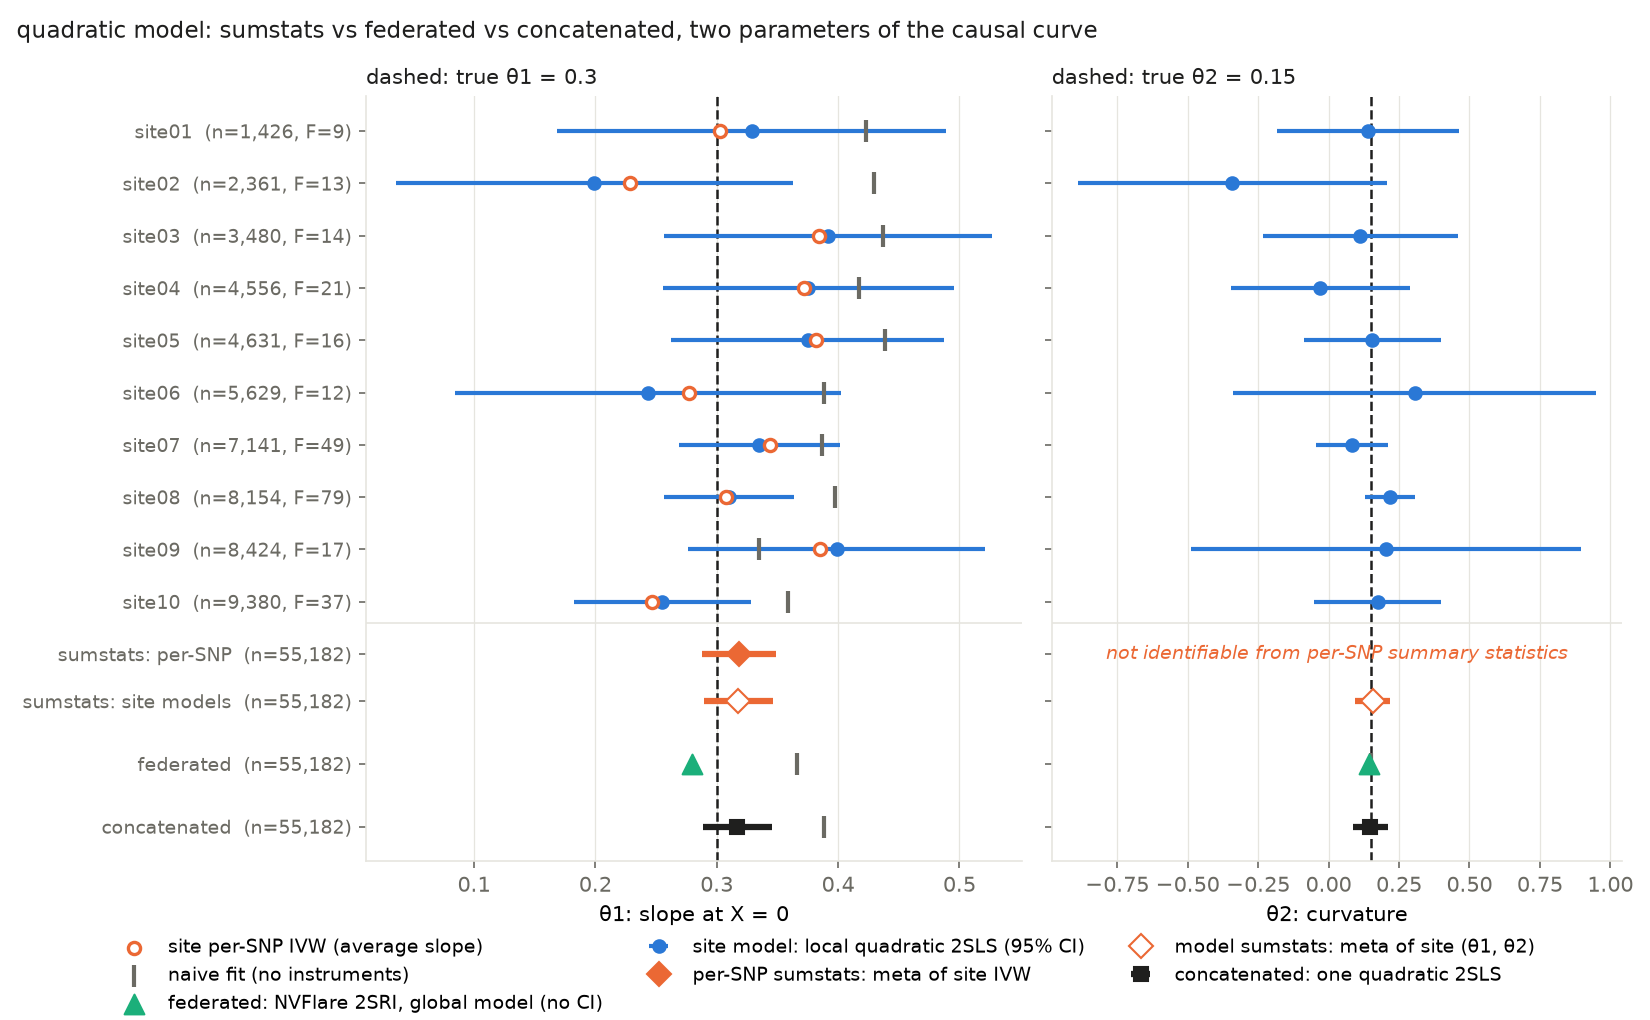
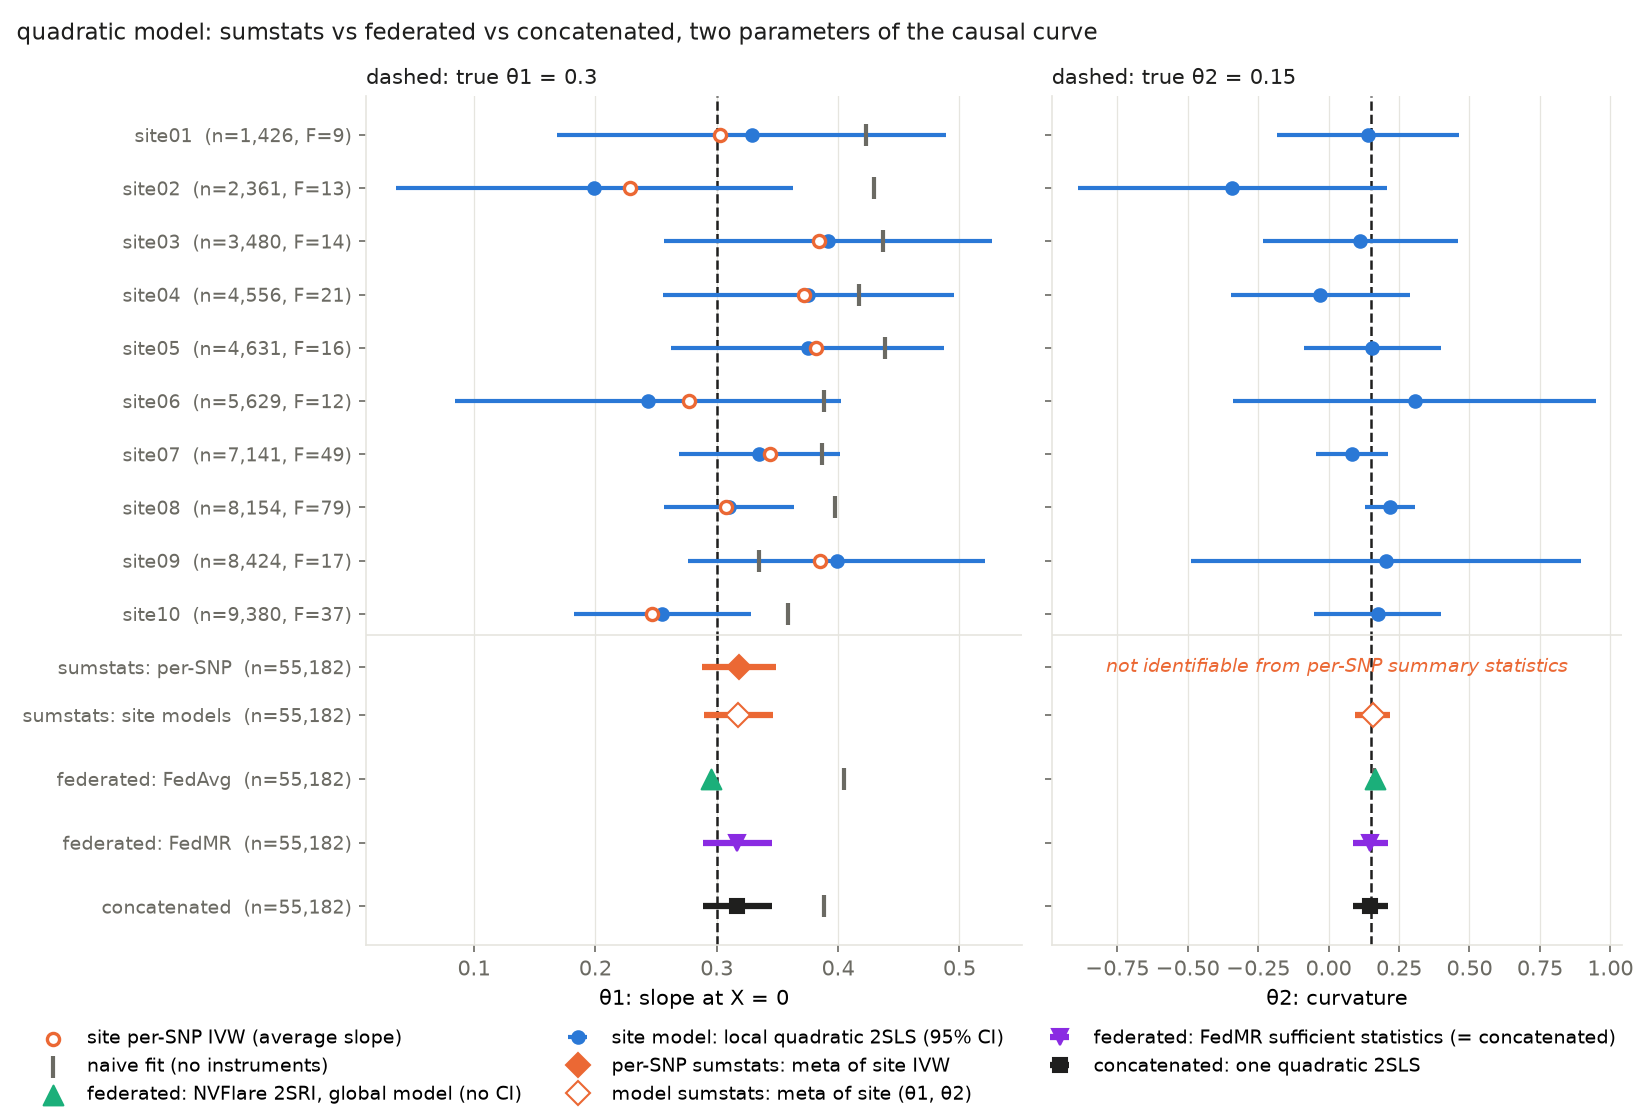
WP2: FedMR driver and FedMR rows on the forest and dose-response plots
scripts/federated_exact_mr.py compares FedMR (classical and robust SE,
first-stage F, cross-fitted variant) with the concatenated, site-meta and
sumstats estimators on every continuous set and writes results/fedmr.<shape>.csv.
The forest plots gain a 'federated: FedMR' row with a CI; the non-linear
plot draws the FedMR quadratic curve, identical to the concatenated fit.

Claude-Session: https://claude.ai/code/session_015NyuikE1DxS4koegP9jiqJ

diff --git a/data/scripts/federated_summary_mr.py b/data/scripts/federated_summary_mr.py
@@ -32,7 +32,8 @@ from lifelines import CoxPHFitter
 matplotlib.use("Agg")
 import matplotlib.pyplot as plt
 
-SITE_COLOR, SUMSTATS_COLOR, FED_COLOR, INK, MUTED, GRID = "#2a78d6", "#eb6834", "#1baf7a", "#1f1f1e", "#6b6a63", "#e6e5df"
+SITE_COLOR, SUMSTATS_COLOR, FED_COLOR, FEDMR_COLOR, INK, MUTED, GRID = ("#2a78d6", "#eb6834", "#1baf7a", "#8a2be2",
+                                                                     "#1f1f1e", "#6b6a63", "#e6e5df")
 FL_RESULTS = Path(__file__).resolve().parents[2] / "federated_learning" / "results"
 
 
@@ -175,11 +176,12 @@ def _family_rows(ax, y_sites, rows_y, res, n_all, families):
     ax.set_yticklabels(labels, fontsize=9)
 
 
-def forest(res, meta, meta_se, pooled, pooled_se, pooled_naive, fl, target, target_label, shape, out: Path):
+def forest(res, meta, meta_se, pooled, pooled_se, pooled_naive, fl, target, target_label, shape, out: Path,
+           fedmr=None):
     sites = res["site"].to_list()
     y = np.arange(len(sites))[::-1]
-    rows_y = {"sumstats": -1, "federated": -2.2, "pooled": -3.4}
-    fig, ax = plt.subplots(figsize=(8, 6.6), dpi=150)
+    rows_y = {"sumstats": -1, "federated": -2.2, "fedmr": -3.4, "pooled": -4.6}
+    fig, ax = plt.subplots(figsize=(8, 7.2), dpi=150)
     ax.axvline(target, color=INK, linewidth=1.2, linestyle="--")
     ax.errorbar(res["ivw"], y, xerr=1.96 * res["ivw_se"], fmt="o", color=SITE_COLOR, ms=6,
                 ecolor=SITE_COLOR, elinewidth=2, capsize=0, label="site IVW (95% CI)")
@@ -191,6 +193,12 @@ def forest(res, meta, meta_se, pooled, pooled_se, pooled_naive, fl, target, targ
                    label="federated: NVFlare 2SRI, global model (no CI)")
     if "naive" in fl:
         ax.scatter([fl["naive"][0]], [rows_y["federated"]], marker="|", s=120, color=MUTED, linewidths=2, zorder=3)
+    if fedmr is not None:
+        ax.errorbar([fedmr[0]], [rows_y["fedmr"]], xerr=[1.96 * fedmr[1]], fmt="v", color=FEDMR_COLOR, ms=8,
+                    ecolor=FEDMR_COLOR, elinewidth=3, label="federated: FedMR sufficient statistics (= concatenated)")
+    else:
+        ax.text(0.5, rows_y["fedmr"], "no FedMR run for this dataset", transform=ax.get_yaxis_transform(),
+                ha="center", va="center", fontsize=9, color=FEDMR_COLOR, style="italic")
     pooled_label = "concatenated: one stratified 2SPS Cox" if shape == "cox" else "concatenated: one pooled 2SLS"
     ax.errorbar([pooled], [rows_y["pooled"]], xerr=[1.96 * pooled_se], fmt="s", color=INK, ms=7,
                 ecolor=INK, elinewidth=3, label=pooled_label)
@@ -200,7 +208,8 @@ def forest(res, meta, meta_se, pooled, pooled_se, pooled_naive, fl, target, targ
         ax.text(0.5, rows_y["federated"], "no NVFlare 2SRI run for this dataset", transform=ax.get_yaxis_transform(),
                 ha="center", va="center", fontsize=9, color=FED_COLOR, style="italic")
     _family_rows(ax, y, rows_y, res, res["n"].sum(),
-                 {"sumstats": "sumstats", "federated": "federated", "pooled": "concatenated"})
+                 {"sumstats": "sumstats", "federated": "federated: FedAvg", "fedmr": "federated: FedMR",
+                  "pooled": "concatenated"})
     ax.set_xlabel("estimated log hazard ratio per unit X" if shape == "cox" else "estimated causal effect of X on Y")
     ax.set_title(f"{shape} model: sumstats vs federated vs concatenated\ndashed line: {target_label}",
                  loc="left", fontsize=11, color=INK)
@@ -208,6 +217,20 @@ def forest(res, meta, meta_se, pooled, pooled_se, pooled_naive, fl, target, targ
     _style(ax)
     fig.tight_layout()
     fig.savefig(out)
+
+
+def fedmr_row(dataset: str, curved: bool):
+    """FedMR estimate from results/fedmr.<dataset>.csv (scripts/federated_exact_mr.py), or None.
+    Returns (theta1, se1, theta2, se2); theta2 and se2 are None for the linear layout."""
+    path = Path("results") / f"fedmr.{dataset}.csv"
+    if not path.exists():
+        return None
+    df = pl.read_csv(path)
+    r = df.filter(pl.col("estimator") == ("FedMR quadratic" if curved else "FedMR"))
+    if r.height == 0:
+        return None
+    r = r.row(0, named=True)
+    return r["theta1"], r["se1"], r["theta2"], r["se2"]
 
 
 def fl_curve(method: str, dataset: str):
@@ -248,12 +271,12 @@ def _style(ax):
 
 
 def forest_curved(res, meta, meta_se, model_meta, model_cov, pooled_q, pooled_cov, pooled_naive, fl,
-                  avg_slope_target, shape, theta1, theta2, out: Path):
+                  avg_slope_target, shape, theta1, theta2, out: Path, fedmr=None):
     """Two columns, one per parameter of the quadratic basis. Rows: sites, then the three families."""
     sites = res["site"].to_list()
     y = np.arange(len(sites))[::-1]
-    rows_y = {"sumstats": -1, "models": -1.9, "federated": -3.1, "pooled": -4.3}
-    fig, axes = plt.subplots(1, 2, figsize=(11, 6.8), dpi=150, sharey=True,
+    rows_y = {"sumstats": -1, "models": -1.9, "federated": -3.1, "fedmr": -4.3, "pooled": -5.5}
+    fig, axes = plt.subplots(1, 2, figsize=(11, 7.4), dpi=150, sharey=True,
                              gridspec_kw={"width_ratios": [1.15, 1]})
     ax1, ax2 = axes
     n_all = res["n"].sum()
@@ -282,6 +305,14 @@ def forest_curved(res, meta, meta_se, model_meta, model_cov, pooled_q, pooled_co
     if "naive" in fl:
         ax1.scatter([fl["naive"][0]], [rows_y["federated"]], marker="|", s=120, color=MUTED, linewidths=2, zorder=3)
         ax2.scatter([fl["naive"][1]], [rows_y["federated"]], marker="|", s=120, color=MUTED, linewidths=2, zorder=3)
+    if fedmr is not None:
+        ax1.errorbar([fedmr[0]], [rows_y["fedmr"]], xerr=[1.96 * fedmr[1]], fmt="v", color=FEDMR_COLOR, ms=8,
+                     ecolor=FEDMR_COLOR, elinewidth=3, label="federated: FedMR sufficient statistics (= concatenated)")
+        ax2.errorbar([fedmr[2]], [rows_y["fedmr"]], xerr=[1.96 * fedmr[3]], fmt="v", color=FEDMR_COLOR, ms=8,
+                     ecolor=FEDMR_COLOR, elinewidth=3)
+    else:
+        ax1.text(0.5, rows_y["fedmr"], "no FedMR run for this dataset", transform=ax1.get_yaxis_transform(),
+                 ha="center", va="center", fontsize=9, color=FEDMR_COLOR, style="italic")
     ax1.errorbar([pooled_q[0]], [rows_y["pooled"]], xerr=[1.96 * np.sqrt(pooled_cov[0, 0])], fmt="s", color=INK,
                  ms=7, ecolor=INK, elinewidth=3, label="concatenated: one quadratic 2SLS")
     ax1.scatter([pooled_naive], [rows_y["pooled"]], marker="|", s=120, color=MUTED, linewidths=2, zorder=3)
@@ -311,7 +342,8 @@ def forest_curved(res, meta, meta_se, model_meta, model_cov, pooled_q, pooled_co
         ax.axhline(-0.4, color=GRID, linewidth=0.8)
         _style(ax)
     _family_rows(ax1, y, rows_y, res, n_all, {"sumstats": "sumstats: per-SNP", "models": "sumstats: site models",
-                                              "federated": "federated", "pooled": "concatenated"})
+                                              "federated": "federated: FedAvg", "fedmr": "federated: FedMR",
+                                              "pooled": "concatenated"})
     fig.suptitle(f"{shape} model: sumstats vs federated vs concatenated, two parameters of the causal curve",
                  x=0.01, ha="left", fontsize=11, color=INK)
     handles, labels = ax1.get_legend_handles_labels()
@@ -356,6 +388,11 @@ def main():
     csv_out, png_out = Path(f"{a.out}.csv"), Path(f"{a.out}.png")
     res.write_csv(csv_out)
     fl = fl_params(a.sites.name, curved)
+    fedmr = fedmr_row(a.sites.name, curved)
+    if fedmr is None:
+        print(f"no FedMR result at results/fedmr.{a.sites.name}.csv; run scripts/federated_exact_mr.py --shape {a.shape}")
+    else:
+        print(f"federated FedMR: " + "  ".join(f"{v:.3f}" for v in fedmr if v is not None) + "   (exact, with CI)")
     for method, coef in fl.items():
         print(f"federated NVFlare {method:5s}: " + "  ".join(f"{v:.3f}" for v in coef) + "   (from curve, no CI)")
     if "2sri" not in fl:
@@ -364,14 +401,14 @@ def main():
         model_meta, model_cov = multivariate_meta(*zip(*site_summary.models))
         pooled_q, pooled_cov = quadratic_2sls(site_summary.raw)
         forest_curved(res, meta, meta_se, model_meta, model_cov, pooled_q, pooled_cov, pooled_naive, fl,
-                      target, a.shape, manifest["theta1"], manifest["theta2"], png_out)
+                      target, a.shape, manifest["theta1"], manifest["theta2"], png_out, fedmr)
         mse = np.sqrt(np.diag(model_cov)); pse = np.sqrt(np.diag(pooled_cov))
         print(f"model sumstats (meta of site quadratic fits): theta1 {model_meta[0]:.3f} ({mse[0]:.3f})  "
               f"theta2 {model_meta[1]:.3f} ({mse[1]:.3f})")
         print(f"concatenated quadratic 2SLS:                  theta1 {pooled_q[0]:.3f} ({pse[0]:.3f})  "
               f"theta2 {pooled_q[1]:.3f} ({pse[1]:.3f})")
     else:
-        forest(res, meta, meta_se, pooled, pooled_se, pooled_naive, fl, target, target_label, a.shape, png_out)
+        forest(res, meta, meta_se, pooled, pooled_se, pooled_naive, fl, target, target_label, a.shape, png_out, fedmr)
 
     with pl.Config(tbl_rows=-1, float_precision=3):
         print(res)

diff --git a/data/scripts/federated_exact_mr.py b/data/scripts/federated_exact_mr.py
@@ -1,0 +1,147 @@
+"""FedMR on the federated sets: exact federated 2SLS versus the other three families.
+
+For each continuous set this runs, without ever concatenating rows across sites,
+
+    FedMR             sufficient statistics summed over sites (scripts/fedmr.py), classical
+                      and robust standard errors, first-stage F and partial R^2
+    FedMR-CF          the same with k-fold cross-fitted X_hat (out-of-fold first stage)
+
+and compares them with
+
+    concatenated      one pooled 2SLS on the stacked rows (federated_summary_mr.py)
+    site meta         each site's own 2SLS, combined by inverse-variance meta-analysis
+    sumstats IVW      per-SNP GWAS effects, per-site IVW, meta-analysis
+
+The headline number is |FedMR - concatenated|, which must be below 1e-10: the
+federated estimator is the pooled estimator, not an approximation of it.
+
+Writes results/fedmr.<shape>.csv (one row per estimator) that the forest and
+dose-response plots pick up, and prints the table.
+
+    uv run python scripts/federated_exact_mr.py --shape quadratic
+    uv run python scripts/federated_exact_mr.py --all
+"""
+
+import argparse
+import json
+import sys
+from pathlib import Path
+
+import numpy as np
+import polars as pl
+
+sys.path.insert(0, str(Path(__file__).parent))
+import fedmr  # noqa: E402
+from federated_nonlinear_mr import sumstats_slope  # noqa: E402
+from federated_summary_mr import multivariate_meta, pooled_2sls, quadratic_2sls  # noqa: E402
+
+FED = Path("simulated_data/federated")
+SHAPES = ("linear", "quadratic", "ushape", "threshold")
+
+
+def raw(sites):
+    return [(s.G, s.X, s.Y) for s in sites]
+
+
+def site_meta_linear(sites):
+    est, se = zip(*[pooled_2sls([r])[:2] for r in raw(sites)])
+    w = 1 / np.array(se) ** 2
+    return float(np.sum(w * est) / np.sum(w)), float(np.sqrt(1 / np.sum(w)))
+
+
+def row(name, theta1, se1, rse1=None, theta2=None, se2=None, rse2=None, F=None, r2=None, diff=None, leaves=""):
+    return {"estimator": name, "theta1": theta1, "se1": se1, "robust_se1": rse1,
+            "theta2": theta2, "se2": se2, "robust_se2": rse2,
+            "first_stage_F": F, "partial_r2": r2, "abs_diff_from_pooled": diff, "what_leaves_site": leaves}
+
+
+def analyse(shape, instruments, crossfit, out_dir):
+    folder = FED / shape
+    manifest = json.loads((folder / "manifest.json").read_text())
+    if manifest.get("shared_snps"):
+        instruments = "shared"
+    sites = fedmr.load_sites(folder)
+    curved = shape != "linear"
+    rows = []
+
+    pooled, pooled_se, naive = pooled_2sls(raw(sites))
+    rows.append(row("concatenated 2SLS", pooled, pooled_se, leaves="individual rows"))
+
+    res = fedmr.fedmr(sites, instruments=instruments, basis="linear", robust=True)
+    fs = res.first_stage["X"]
+    rows.append(row("FedMR", res["X"], res.se("X"), res.se("X", True), F=fs["F"], r2=fs["partial_r2"],
+                    diff=abs(res["X"] - pooled), leaves="Z'Z, Z'W, Z'Y, W'W, W'Y, Y'Y, n (+ H for robust SE)"))
+
+    cf = fedmr.fedmr(sites, instruments=instruments, basis="linear", robust=True, crossfit=crossfit)
+    rows.append(row(f"FedMR-CF ({crossfit} folds)", cf["X"], cf.se("X"), cf.se("X", True),
+                    F=cf.first_stage["X"]["F"], r2=cf.first_stage["X"]["partial_r2"],
+                    leaves="per-fold first-stage moments, then the same statistics"))
+
+    meta, meta_se = site_meta_linear(sites)
+    rows.append(row("site 2SLS meta-analysis", meta, meta_se, diff=abs(meta - pooled),
+                    leaves="one estimate and SE per site"))
+    slope, slope_se = sumstats_slope(raw(sites))
+    rows.append(row("per-SNP sumstats IVW", slope, slope_se, diff=abs(slope - pooled),
+                    leaves="per-SNP beta_x, beta_y, SEs"))
+    rows.append(row("naive OLS (no instruments)", naive, None))
+
+    if curved:
+        theta, cov = quadratic_2sls(raw(sites))
+        rows.append(row("concatenated quadratic 2SLS", theta[0], np.sqrt(cov[0, 0]), theta2=theta[1],
+                        se2=np.sqrt(cov[1, 1]), leaves="individual rows"))
+        q = fedmr.fedmr(sites, instruments=instruments, basis="quadratic", robust=True)
+        d = max(abs(q["X"] - theta[0]), abs(q["X2"] - theta[1]))
+        rows.append(row("FedMR quadratic", q["X"], q.se("X"), q.se("X", True), q["X2"], q.se("X2"), q.se("X2", True),
+                        F=q.first_stage["X"]["F"], r2=q.first_stage["X"]["partial_r2"], diff=d,
+                        leaves="the same statistics with W = [X, X^2, site], Z = [xhat, xhat^2, site]"))
+        qcf = fedmr.fedmr(sites, instruments=instruments, basis="quadratic", robust=True, crossfit=crossfit)
+        rows.append(row(f"FedMR-CF quadratic ({crossfit} folds)", qcf["X"], qcf.se("X"), qcf.se("X", True),
+                        qcf["X2"], qcf.se("X2"), qcf.se("X2", True)))
+        thetas, covs = zip(*[quadratic_2sls([r]) for r in raw(sites)])
+        mt, mc = multivariate_meta(thetas, covs)
+        rows.append(row("site quadratic 2SLS meta-analysis", mt[0], np.sqrt(mc[0, 0]), theta2=mt[1],
+                        se2=np.sqrt(mc[1, 1]), diff=max(abs(mt[0] - theta[0]), abs(mt[1] - theta[1])),
+                        leaves="two coefficients and a 2x2 covariance per site"))
+
+    truth = {"theta1": manifest["theta1"], "theta2": manifest.get("theta2"),
+             "avg_slope": float(np.sum([s["n"] * s["avg_slope"] for s in manifest["sites"]])
+                              / np.sum([s["n"] for s in manifest["sites"]]))}
+    df = pl.DataFrame(rows)
+    out_dir.mkdir(parents=True, exist_ok=True)
+    out = out_dir / f"fedmr.{shape}.csv"
+    df.write_csv(out)
+    (out_dir / f"fedmr.{shape}.truth.json").write_text(json.dumps(truth, indent=1))
+
+    print(f"\n{shape}: {len(sites)} sites, N = {res.N:,}, instruments = {instruments}; "
+          f"true theta1 = {truth['theta1']}, theta2 = {truth['theta2']}, average slope = {truth['avg_slope']:.3f}")
+    with pl.Config(tbl_rows=-1, tbl_cols=-1, float_precision=4, tbl_width_chars=200, fmt_str_lengths=40):
+        print(df.drop("what_leaves_site"))
+    print(f"identity check |FedMR - concatenated| = {abs(res['X'] - pooled):.2e}"
+          + (f", quadratic {d:.2e}" if curved else ""))
+    print(f"wrote {out}")
+    return df
+
+
+def main():
+    p = argparse.ArgumentParser(description=__doc__.splitlines()[0])
+    p.add_argument("--shape", action="append", choices=SHAPES + ("linear_shared",),
+                   help="repeatable; default quadratic")
+    p.add_argument("--all", action="store_true", help="every continuous set under simulated_data/federated/")
+    p.add_argument("--instruments", choices=["site", "shared"], default="site",
+                   help="site: each site's SNPs are its own variants (block-diagonal Z'Z); "
+                        "shared: harmonized SNPs, one column per SNP. Sets whose manifest says "
+                        "shared_snps use 'shared' regardless.")
+    p.add_argument("--crossfit", type=int, default=5, help="folds for FedMR-CF")
+    p.add_argument("--out", type=Path, default=Path("results"))
+    a = p.parse_args()
+    if a.all:
+        shapes = [d.name for d in sorted(FED.iterdir())
+                  if (d / "manifest.json").exists() and d.name.startswith(SHAPES)]
+    else:
+        shapes = a.shape or ["quadratic"]
+    for shape in shapes:
+        analyse(shape, a.instruments, a.crossfit, a.out)
+
+
+if __name__ == "__main__":
+    main()

diff --git a/data/scripts/federated_nonlinear_mr.py b/data/scripts/federated_nonlinear_mr.py
@@ -30,10 +30,11 @@ matplotlib.use("Agg")
 import matplotlib.pyplot as plt
 
 sys.path.insert(0, str(Path(__file__).parent))
+import fedmr  # noqa: E402
 from federated_summary_mr import gwas, ivw, quadratic_2sls  # noqa: E402
 from simulate_basic import causal_curve  # noqa: E402
 
-POOLED_COLOR, SUMSTATS_COLOR, INK, MUTED, GRID = "#2a78d6", "#eb6834", "#1f1f1e", "#6b6a63", "#e6e5df"
+POOLED_COLOR, SUMSTATS_COLOR, FEDMR_COLOR, INK, MUTED, GRID = "#2a78d6", "#eb6834", "#8a2be2", "#1f1f1e", "#6b6a63", "#e6e5df"
 FL_STYLE = {"naive": ("#1baf7a", "federated learning, naive MLP: E[Y | X], no instruments (confounded)"),
             "2sri": ("#4a3aa7", "federated learning, 2SRI MLP: f(X) with first-stage residual as control function")}
 
@@ -89,10 +90,16 @@ def main():
     theta, cov = quadratic_2sls(sites)
     se = np.sqrt(np.diag(cov))
     slope, slope_se = sumstats_slope(sites)
+    fm = fedmr.fedmr([fedmr.SiteData(f"site{k + 1:02d}", G, X, Y) for k, (G, X, Y) in enumerate(sites)],
+                     basis="quadratic", robust=False)
+    fm_theta = np.array([fm["X"], fm["X2"]])
+    fm_diff = float(np.max(np.abs(fm_theta - theta)))
 
     print(f"{a.shape} set, true theta1={t1}, theta2={t2}")
     print(f"concatenated quadratic 2SLS:  theta1 {theta[0]:.3f} ({se[0]:.3f})   theta2 {theta[1]:.3f} ({se[1]:.3f})")
     print(f"sumstats linear IVW:          slope  {slope:.3f} ({slope_se:.3f})   theta2 not identifiable")
+    print(f"federated FedMR quadratic:    theta1 {fm_theta[0]:.3f} ({fm.se('X'):.3f})   theta2 {fm_theta[1]:.3f} "
+          f"({fm.se('X2'):.3f})   |diff from concatenated| = {fm_diff:.1e}")
 
     # dose-response curves, centred so every curve passes through f(0) = 0
     x = np.linspace(-2.5, 2.5, 200)
@@ -109,6 +116,8 @@ def main():
     ax.plot(x, fit, color=POOLED_COLOR, linewidth=2,
             label=f"concatenated: quadratic 2SLS  θ1={theta[0]:.2f}, θ2={theta[1]:.2f} (95% band)")
     ax.plot(x, line, color=SUMSTATS_COLOR, linewidth=2, label=f"sumstats: linear IVW  slope={slope:.2f}")
+    ax.plot(x, basis @ fm_theta, color=FEDMR_COLOR, linewidth=1.4, linestyle=(0, (1, 2)),
+            label=f"federated: FedMR sufficient statistics, identical to concatenated (|Δθ| = {fm_diff:.0e})")
     for m, (color, label) in FL_STYLE.items():
         if fl[m] is None:
             print(f"no federated {m} curve under {a.federated}; run federated_learning/job.py "
